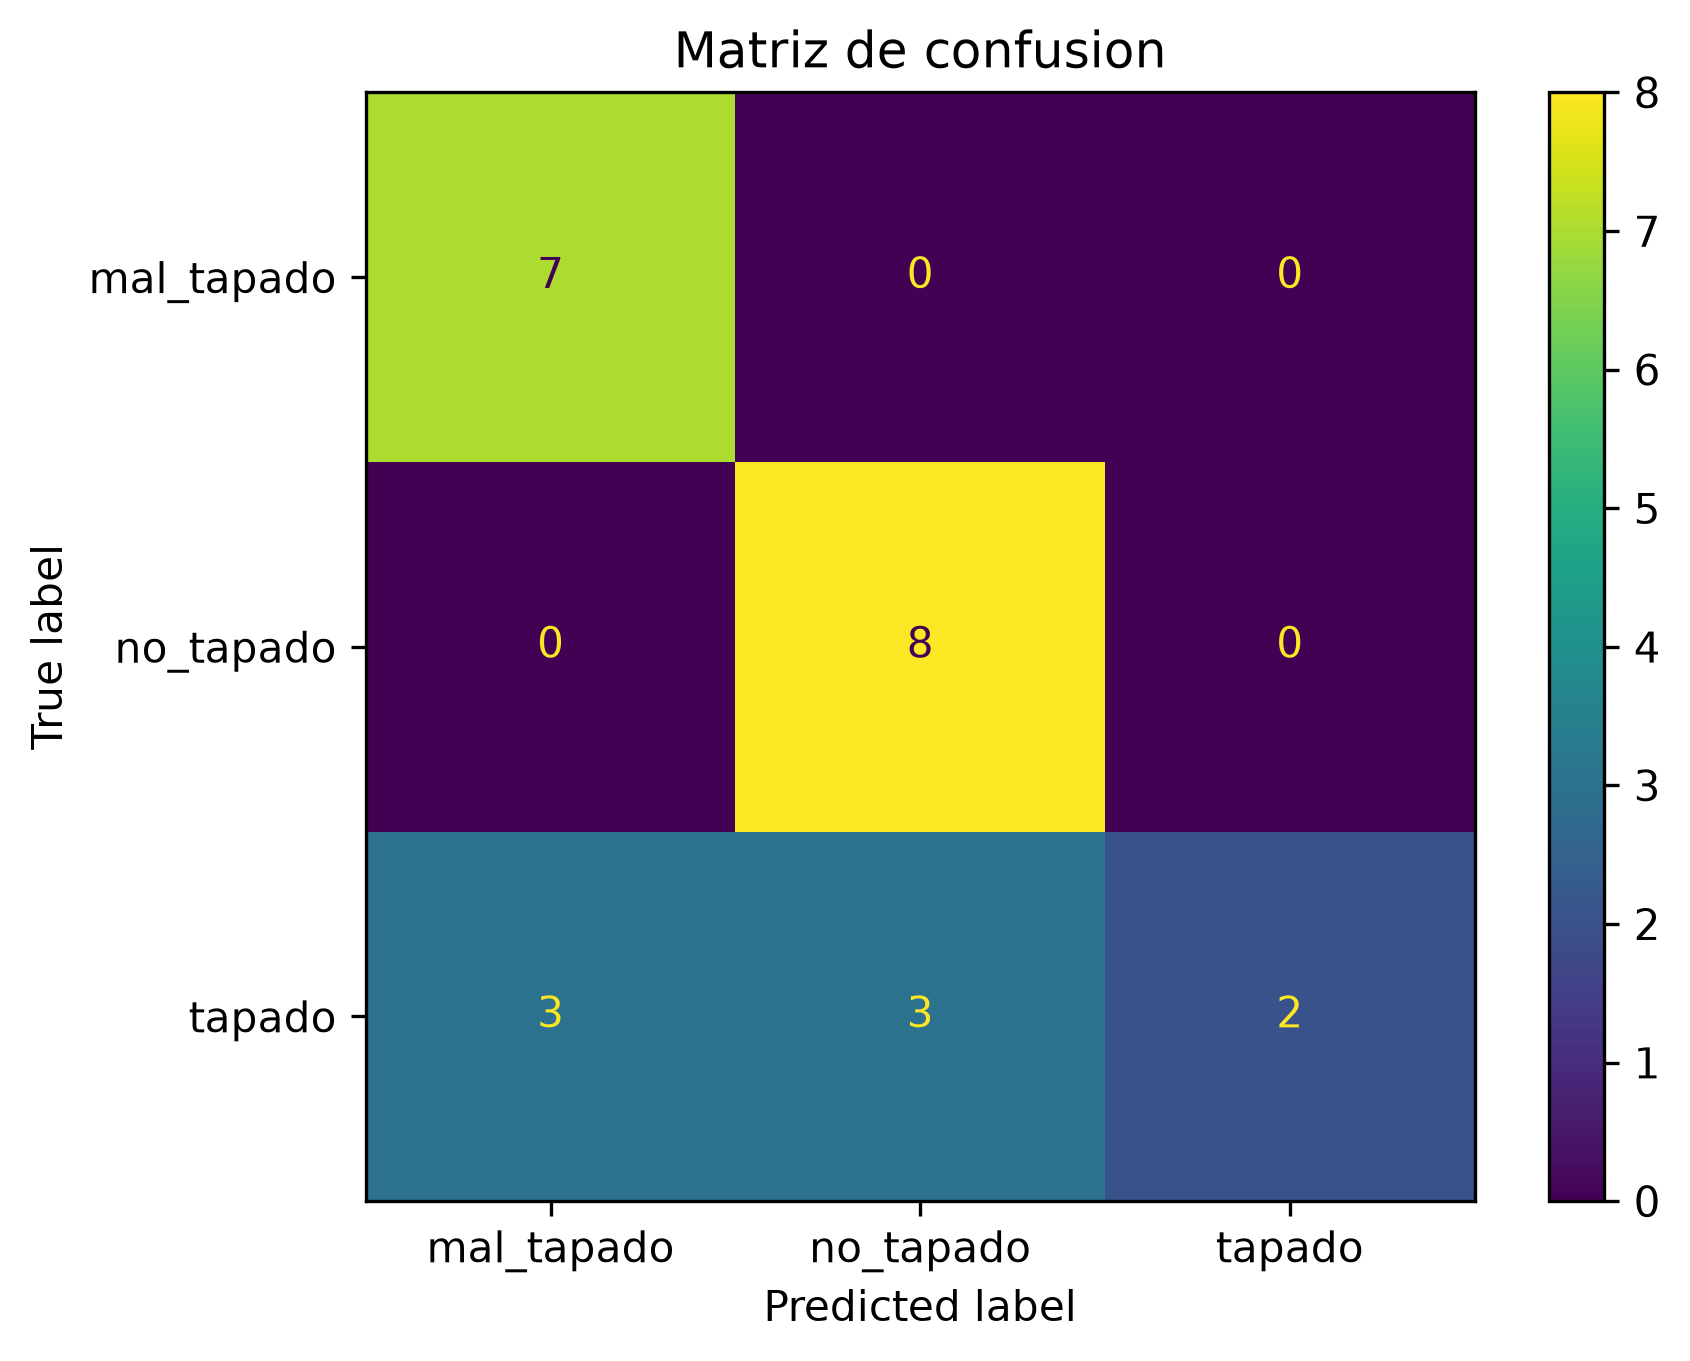
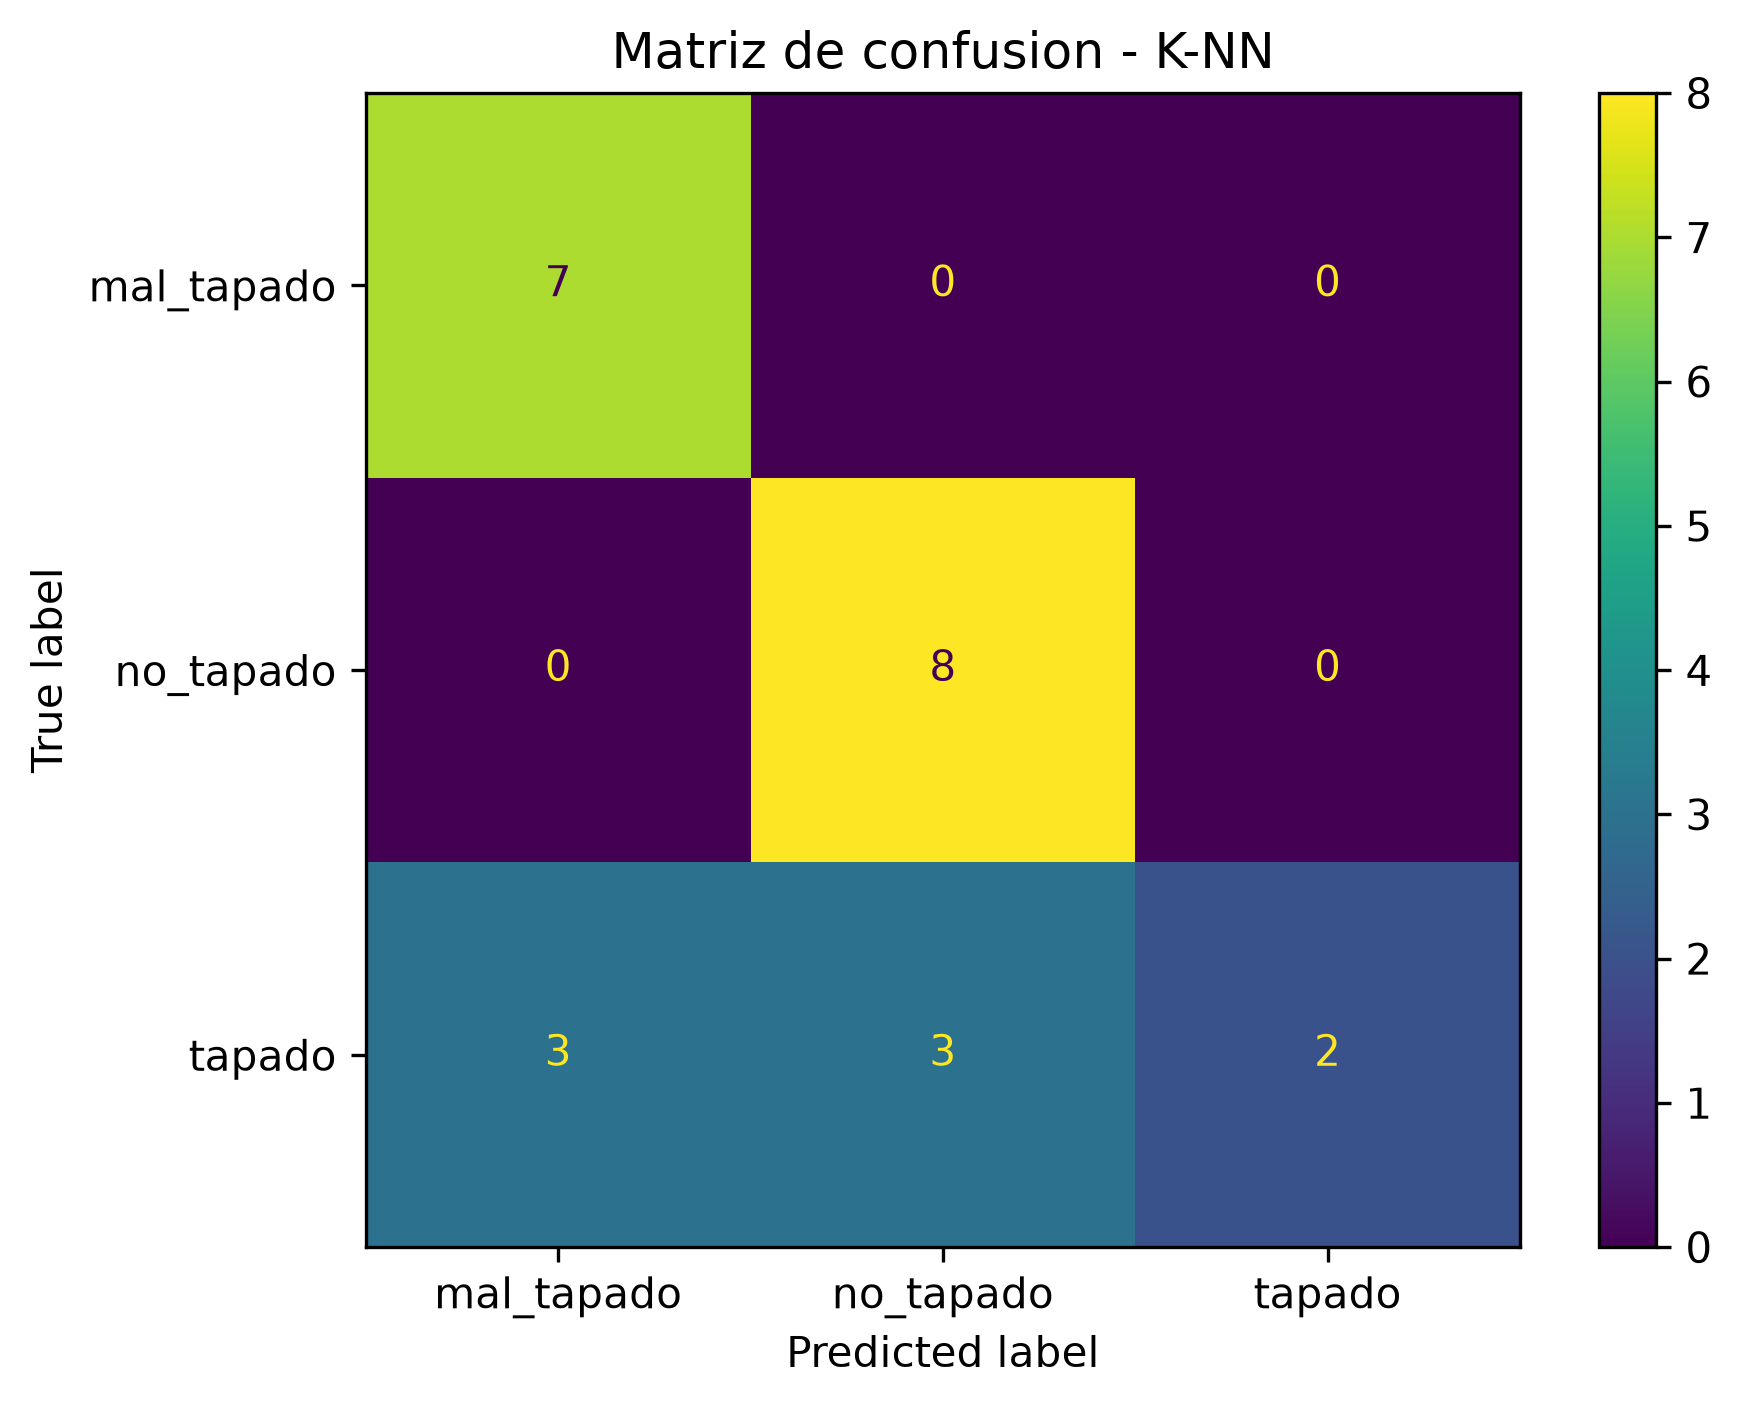
s08 bloque 1: red neuronal y comparacion

diff --git a/codigo/entrenar.py b/codigo/entrenar.py
@@ -1,23 +1,19 @@
-
 # entrenar.py
-# Entrena el clasificador y guarda el modelo
+# Compara K-NN con dos redes neuronales
 
-import pandas as pd
+import os
+import warnings
 import joblib
+import pandas as pd
+import matplotlib.pyplot as plt
 
 from sklearn.model_selection import train_test_split
 from sklearn.preprocessing import StandardScaler
 from sklearn.neighbors import KNeighborsClassifier
+from sklearn.neural_network import MLPClassifier
+from sklearn.metrics import accuracy_score, confusion_matrix, ConfusionMatrixDisplay
 
-from sklearn.metrics import (
-    accuracy_score,
-    confusion_matrix,
-    ConfusionMatrixDisplay
-)
-
-import matplotlib.pyplot as plt
-import os
-
+warnings.filterwarnings("ignore", category=UserWarning)
 
 # ======================================
 # RUTAS
@@ -27,44 +23,37 @@ carpeta_codigo = os.path.dirname(os.path.abspath(__file__))
 carpeta_proyecto = os.path.dirname(carpeta_codigo)
 
 ruta_datos = os.path.join(
-    carpeta_proyecto,
-    'datos',
-    'features.csv'
+    carpeta_proyecto, "datos", "features.csv"
 )
 
 ruta_modelo = os.path.join(
-    carpeta_proyecto,
-    'modelo.pkl'
+    carpeta_proyecto, "modelo.pkl"
 )
 
-carpeta_figuras = os.path.join(
-    carpeta_proyecto,
-    'figuras'
+ruta_comparacion = os.path.join(
+    carpeta_proyecto, "datos", "comparacion_modelos.csv"
 )
 
+carpeta_figuras = os.path.join(carpeta_proyecto, "figuras")
 os.makedirs(carpeta_figuras, exist_ok=True)
-
 
 # ======================================
 # LEER LOS DATOS
 # ======================================
 
+print("Leyendo los datos...")
+
 features = pd.read_csv(ruta_datos)
 
+X = features.drop(columns=["ventana", "etiqueta"])
+y = features["etiqueta"]
+
+print(f"Total de ejemplos: {len(features)}")
+print("\nEjemplos por clase:")
+print(y.value_counts())
 
 # ======================================
-# SEPARAR CARACTERISTICAS Y ETIQUETAS
-# ======================================
-
-X = features.drop(
-    columns=['ventana', 'etiqueta']
-)
-
-y = features['etiqueta']
-
-
-# ======================================
-# SEPARAR DATOS PARA ENTRENAR Y PROBAR
+# SEPARAR LOS DATOS
 # ======================================
 
 X_train, X_test, y_train, y_test = train_test_split(
@@ -75,14 +64,8 @@ X_train, X_test, y_train, y_test = train_test_split(
     random_state=42
 )
 
-
-print("======================================")
-print("       DATOS PARA ENTRENAMIENTO")
-print("======================================")
-
-print(f"Ejemplos para aprender: {len(X_train)}")
-print(f"Ejemplos para probar: {len(X_test)}")
-
+print("\nDatos para aprender:", len(X_train))
+print("Datos para probar:", len(X_test))
 
 # ======================================
 # PREPARAR LOS DATOS
@@ -91,71 +74,115 @@ print(f"Ejemplos para probar: {len(X_test)}")
 escalador = StandardScaler()
 
 X_train_esc = escalador.fit_transform(X_train)
-
 X_test_esc = escalador.transform(X_test)
 
-
 # ======================================
-# CREAR Y ENTRENAR EL MODELO
-# ======================================
-
-modelo = KNeighborsClassifier(
-    n_neighbors=5
-)
-
-modelo.fit(
-    X_train_esc,
-    y_train
-)
-
-
-# ======================================
-# HACER PREDICCIONES
+# CREAR LOS TRES MODELOS
 # ======================================
 
-y_pred = modelo.predict(
-    X_test_esc
-)
+modelos = {
+    "K-NN semana 7": KNeighborsClassifier(
+        n_neighbors=5
+    ),
 
+    "Red de 10 neuronas": MLPClassifier(
+        hidden_layer_sizes=(10,),
+        max_iter=2000,
+        random_state=42
+    ),
+
+    "Red de 50 neuronas": MLPClassifier(
+        hidden_layer_sizes=(50,),
+        max_iter=2000,
+        random_state=42
+    )
+}
 
 # ======================================
-# CALCULAR EXACTITUD
+# ENTRENAR Y COMPARAR
 # ======================================
 
-exactitud = accuracy_score(
-    y_test,
-    y_pred
-)
+resultados = {}
 
 print("\n======================================")
-print("             RESULTADOS")
+print("       COMPARACION DE MODELOS")
 print("======================================")
 
-print(f"\nExactitud: {exactitud:.4f}")
+for nombre, modelo in modelos.items():
 
+    print(f"\nEntrenando: {nombre}...")
+
+    modelo.fit(X_train_esc, y_train)
+
+    pred_train = modelo.predict(X_train_esc)
+    pred_test = modelo.predict(X_test_esc)
+
+    exactitud_train = accuracy_score(y_train, pred_train)
+    exactitud_test = accuracy_score(y_test, pred_test)
+
+    resultados[nombre] = {
+        "Exactitud train": exactitud_train,
+        "Exactitud test": exactitud_test
+    }
+
+    print(f"Exactitud train: {exactitud_train:.4f} "
+          f"({exactitud_train * 100:.2f}%)")
+
+    print(f"Exactitud test:  {exactitud_test:.4f} "
+          f"({exactitud_test * 100:.2f}%)")
 
 # ======================================
-# MATRIZ DE CONFUSION
+# MOSTRAR Y GUARDAR LA TABLA
 # ======================================
 
+tabla = pd.DataFrame(resultados).T
+tabla.index.name = "Modelo"
+
+print("\n======================================")
+print("          TABLA DE RESULTADOS")
+print("======================================")
+print(tabla.round(4))
+
+tabla.to_csv(ruta_comparacion, encoding="utf-8-sig")
+
+print("\nTabla guardada en:")
+print(ruta_comparacion)
+
+# ======================================
+# GUARDAR GRAFICA DE COMPARACION
+# ======================================
+
+tabla.plot(kind="bar", figsize=(9, 5))
+
+plt.title("Comparacion de los modelos")
+plt.ylabel("Exactitud")
+plt.xlabel("Modelo")
+plt.ylim(0, 1.05)
+plt.xticks(rotation=15, ha="right")
+plt.legend(["Entrenamiento", "Prueba"])
+plt.tight_layout()
+
+ruta_grafica = os.path.join(
+    carpeta_figuras, "comparacion_modelos.png"
+)
+
+plt.savefig(ruta_grafica, dpi=300, bbox_inches="tight")
+plt.close()
+
+print("\nGrafica guardada en:")
+print(ruta_grafica)
+
+# ======================================
+# MATRIZ DE CONFUSION DEL K-NN
+# ======================================
+
+modelo_knn = modelos["K-NN semana 7"]
+pred_knn = modelo_knn.predict(X_test_esc)
 clases = sorted(y.unique())
 
 matriz = confusion_matrix(
-    y_test,
-    y_pred,
-    labels=clases
+    y_test, pred_knn, labels=clases
 )
-
-print("\nMatriz de confusion:")
-print(matriz)
-
-print("\nClases en ese orden:")
-print(clases)
-
-
-# ======================================
-# GRAFICA DE LA MATRIZ
-# ======================================
 
 disp = ConfusionMatrixDisplay(
     confusion_matrix=matriz,
@@ -163,52 +190,36 @@ disp = ConfusionMatrixDisplay(
 )
 
 disp.plot()
+plt.title("Matriz de confusion - K-NN")
+plt.tight_layout()
 
-plt.title("Matriz de confusion")
-
-plt.savefig(
-    os.path.join(
-        carpeta_figuras,
-        'confusion.png'
-    ),
-    dpi=300,
-    bbox_inches='tight'
+ruta_confusion = os.path.join(
+    carpeta_figuras, "confusion.png"
 )
 
+plt.savefig(ruta_confusion, dpi=300, bbox_inches="tight")
 plt.close()
 
-
-print("\nGrafica guardada en:")
-print(
-    os.path.join(
-        carpeta_figuras,
-        'confusion.png'
-    )
-)
-
-
 # ======================================
-# GUARDAR MODELO, ESCALADOR Y COLUMNAS
+# CONSERVAR EL MODELO DE LA SEMANA 7
 # ======================================
+
+# Por ahora mantenemos K-NN como modelo principal.
+# Elegiremos si conviene cambiarlo despues de revisar
+# los resultados de los tres modelos.
 
 joblib.dump(
     {
-        'modelo': modelo,
-        'escalador': escalador,
-        'columnas': list(X.columns)
+        "modelo": modelo_knn,
+        "escalador": escalador,
+        "columnas": list(X.columns)
     },
     ruta_modelo
 )
 
-
-print("\nModelo guardado en:")
+print("\nModelo K-NN guardado en:")
 print(ruta_modelo)
 
-
-# ======================================
-# FINAL
-# ======================================
-
 print("\n======================================")
-print("       ENTRENAMIENTO TERMINADO")
+print("       COMPARACION TERMINADA")
 print("======================================")

diff --git a/BITACORA.md b/BITACORA.md
@@ -338,6 +338,42 @@ Sí, en parte coincidió con lo que había observado en las gráficas de la sema
 El resultado me ayudó a comprobar que `tapado` es la clase que más se parece a las otras para el modelo. Esto significa que todavía hay cosas que se pueden mejorar para que pueda distinguir mejor las tres clases.
 
 
+## Semana 8 - Redes neuronales y comparación de modelos (U2)
+
+### Antes de la clase
+
+### Bloque 1: La red neuronal como clasificador
+
+**1. ¿Qué modelos comparé y qué resultados obtuve?**
+
+En esta actividad comparé el modelo K-NN que había hecho en la semana 7 con dos redes neuronales, una de 10 neuronas y otra de 50. Para hacer la comparación utilicé los mismos 90 ejemplos que tenía preparados, con 30 de cada clase: `tapado`, `mal_tapado` y `no_tapado`.
+
+El programa utilizó 67 ejemplos para aprender y dejó 23 para comprobar qué tan bien funcionaba cada modelo.
+
+Los resultados que obtuve fueron los siguientes:
+
+| Modelo | Exactitud train | Exactitud test |
+|---|---:|---:|
+| K-NN de la semana 7 | 77.61% | 73.91% |
+| Red de 10 neuronas | 98.51% | 78.26% |
+| Red de 50 neuronas | 100.00% | 82.61% |
+
+**2. ¿Qué modelo elijo para mi proyecto y por qué?**
+
+Por los resultados que obtuve, elegiría la red neuronal de 50 neuronas, porque fue la que tuvo el mejor resultado al probarla con los datos que no utilizó para aprender, con una exactitud de 82.61%.
+
+El modelo K-NN obtuvo 73.91% y la red de 10 neuronas obtuvo 78.26%. Por eso, la red de 50 neuronas parece ser la mejor opción de las tres que probé. Sin embargo, todavía necesito comprobar cómo funciona con nuevas lecturas del sensor antes de utilizarla en el proyecto completo.
+
+**3. ¿Por qué una red neuronal no siempre gana?**
+
+Una red neuronal no siempre obtiene mejores resultados porque necesita suficientes ejemplos para aprender correctamente. En mi caso, solamente tengo 90 ejemplos, por lo que todavía puede equivocarse al reconocer piezas nuevas.
+
+También observé que la red de 50 neuronas obtuvo 100% en el entrenamiento, pero bajó a 82.61% en las pruebas. Esto significa que reconoció todos los ejemplos que utilizó para aprender, pero no logró reconocer correctamente todos los ejemplos que se dejaron aparte.
+
+Con esta actividad entendí que no siempre gana el modelo más complicado. Lo importante es comparar los resultados y elegir el que funcione mejor para el proyecto, tomando en cuenta que todavía se pueden mejorar los datos y las pruebas.
+
+
+
 
 
 ### corección de revisión
